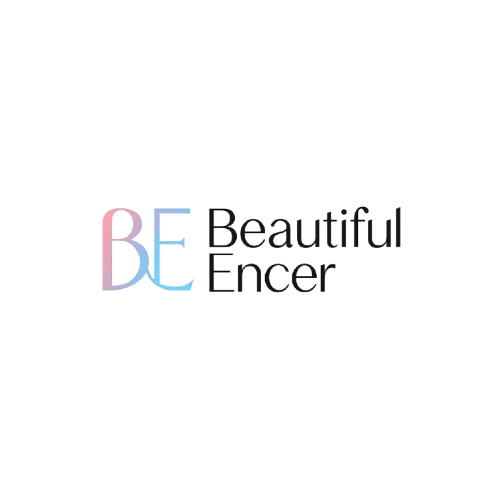
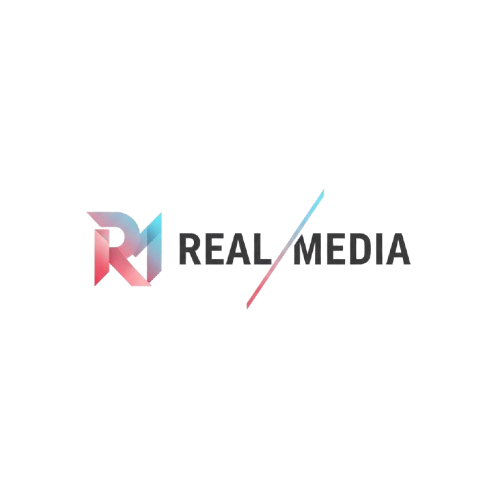
fixed to real media from beautiful encer

Changed region(s): [[0.18, 0.39, 0.84, 0.63]]

diff --git a/api/dist/services/email.service.js b/api/dist/services/email.service.js
@@ -27,7 +27,7 @@ const getEmailTemplate = (title, message, otp, purpose) => {
               <tr>
                 <td style="background: linear-gradient(135deg, #d946ef 0%, #a855f7 50%, #667eea 100%); padding: 40px 30px; text-align: center;">
                   <h1 style="margin: 0; color: white; font-size: 32px; font-weight: 700; text-shadow: 0 2px 4px rgba(0,0,0,0.2);">
-                    ✨ Beautiful Encer
+                    ✨ Real Media
                   </h1>
                   <p style="margin: 10px 0 0 0; color: rgba(255, 255, 255, 0.95); font-size: 16px; font-weight: 500;">
                     Influencer Marketing Platform
@@ -80,13 +80,13 @@ const getEmailTemplate = (title, message, otp, purpose) => {
                     Best regards,
                   </p>
                   <p style="margin: 0; background: linear-gradient(135deg, #d946ef 0%, #a855f7 50%, #667eea 100%); -webkit-background-clip: text; -webkit-text-fill-color: transparent; background-clip: text; font-size: 16px; font-weight: 700;">
-                    Team Beautiful Encer
+                    Team Real Media
                   </p>
                   
                   <div style="margin-top: 20px; padding-top: 20px; border-top: 1px solid #e5e7eb;">
                     <p style="margin: 0; color: #9ca3af; font-size: 12px; line-height: 1.5;">
-                      © 2025 Beautiful Encer. All rights reserved.<br>
-                      This is an automated email. Please do not reply to this message.
+                        © 2025 Real Media. All rights reserved.<br>
+                        This is an automated email. Please do not reply to this message.
                     </p>
                   </div>
                 </td>
@@ -104,14 +104,14 @@ const getEmailTemplate = (title, message, otp, purpose) => {
  * Send OTP email for signup verification
  */
 export const sendOtpEmail = async (to, otp) => {
-    const html = getEmailTemplate('Email Verification', 'Thank you for signing up with Beautiful Encer! To complete your registration, please verify your email address using the OTP code below:', otp, 'verification');
+    const html = getEmailTemplate('Email Verification', 'Thank you for signing up with Real Media! To complete your registration, please verify your email address using the OTP code below:', otp, 'verification');
     try {
         logger.log(`📧 [Email Service] Sending OTP email to: ${to}`);
         logger.log(`📧 [Email Service] OTP Code: ${otp}`);
         const result = await tranEmailApi.sendTransacEmail({
-            sender: { email: "singharya9693@gmail.com", name: "Beautiful Encer" },
+            sender: { email: "singharya9693@gmail.com", name: "Real Media" },
             to: [{ email: to }],
-            subject: "✨ Beautiful Encer - Verify Your Email",
+            subject: "✨ Real Media - Verify Your Email",
             htmlContent: html,
         });
         logger.log(`✅ OTP email sent successfully to ${to}`);
@@ -137,9 +137,9 @@ export const sendPasswordResetOtpEmail = async (to, otp) => {
         logger.log(`🔐 [Email Service] Sending password reset OTP to: ${to}`);
         logger.log(`🔐 [Email Service] OTP Code: ${otp}`);
         const result = await tranEmailApi.sendTransacEmail({
-            sender: { email: "singharya9693@gmail.com", name: "Beautiful Encer" },
+            sender: { email: "singharya9693@gmail.com", name: "Real Media" },
             to: [{ email: to }],
-            subject: "🔐 Beautiful Encer - Reset Your Password",
+            subject: "🔐 Real Media - Reset Your Password",
             htmlContent: html,
         });
         logger.log(`✅ Password reset OTP email sent successfully to ${to}`);

diff --git a/api/src/services/email.service.ts b/api/src/services/email.service.ts
@@ -30,7 +30,7 @@ const getEmailTemplate = (title: string, message: string, otp: string, purpose: 
               <tr>
                 <td style="background: linear-gradient(135deg, #d946ef 0%, #a855f7 50%, #667eea 100%); padding: 40px 30px; text-align: center;">
                   <h1 style="margin: 0; color: white; font-size: 32px; font-weight: 700; text-shadow: 0 2px 4px rgba(0,0,0,0.2);">
-                    ✨ Beautiful Encer
+                    ✨ Real Media
                   </h1>
                   <p style="margin: 10px 0 0 0; color: rgba(255, 255, 255, 0.95); font-size: 16px; font-weight: 500;">
                     Influencer Marketing Platform
@@ -83,13 +83,13 @@ const getEmailTemplate = (title: string, message: string, otp: string, purpose: 
                     Best regards,
                   </p>
                   <p style="margin: 0; background: linear-gradient(135deg, #d946ef 0%, #a855f7 50%, #667eea 100%); -webkit-background-clip: text; -webkit-text-fill-color: transparent; background-clip: text; font-size: 16px; font-weight: 700;">
-                    Team Beautiful Encer
+                    Team Real Media
                   </p>
                   
                   <div style="margin-top: 20px; padding-top: 20px; border-top: 1px solid #e5e7eb;">
                     <p style="margin: 0; color: #9ca3af; font-size: 12px; line-height: 1.5;">
-                      © 2025 Beautiful Encer. All rights reserved.<br>
-                      This is an automated email. Please do not reply to this message.
+                        © 2025 Real Media. All rights reserved.<br>
+                        This is an automated email. Please do not reply to this message.
                     </p>
                   </div>
                 </td>
@@ -110,7 +110,7 @@ const getEmailTemplate = (title: string, message: string, otp: string, purpose: 
 export const sendOtpEmail = async (to: string, otp: string) => {
   const html = getEmailTemplate(
     'Email Verification',
-    'Thank you for signing up with Beautiful Encer! To complete your registration, please verify your email address using the OTP code below:',
+    'Thank you for signing up with Real Media! To complete your registration, please verify your email address using the OTP code below:',
     otp,
     'verification'
   );
@@ -120,9 +120,9 @@ export const sendOtpEmail = async (to: string, otp: string) => {
     logger.log(`📧 [Email Service] OTP Code: ${otp}`);
     
     const result = await tranEmailApi.sendTransacEmail({
-      sender: { email: "singharya9693@gmail.com", name: "Beautiful Encer" },
+      sender: { email: "singharya9693@gmail.com", name: "Real Media" },
       to: [{ email: to }],
-      subject: "✨ Beautiful Encer - Verify Your Email",
+      subject: "✨ Real Media - Verify Your Email",
       htmlContent: html,
     });
 
@@ -156,9 +156,9 @@ export const sendPasswordResetOtpEmail = async (to: string, otp: string) => {
     logger.log(`🔐 [Email Service] OTP Code: ${otp}`);
     
     const result = await tranEmailApi.sendTransacEmail({
-      sender: { email: "singharya9693@gmail.com", name: "Beautiful Encer" },
+      sender: { email: "singharya9693@gmail.com", name: "Real Media" },
       to: [{ email: to }],
-      subject: "🔐 Beautiful Encer - Reset Your Password",
+      subject: "🔐 Real Media - Reset Your Password",
       htmlContent: html,
     });
 

diff --git a/api/dist/test-email.js b/api/dist/test-email.js
@@ -22,14 +22,14 @@ const testEmail = async () => {
     try {
         console.log('📧 Attempting to send test email...');
         const result = await tranEmailApi.sendTransacEmail({
-            sender: { email: "singharya9693@gmail.com", name: "Beautiful Encer" },
+            sender: { email: "singharya9693@gmail.com", name: "Real Media" },
             to: [{ email: "singharya9693@gmail.com" }], // Change to your email
-            subject: "🧪 Test Email - Beautiful Encer",
+            subject: "🧪 Test Email - Real Media",
             htmlContent: `
         <html>
           <body style="font-family: Arial, sans-serif; padding: 20px;">
             <h1 style="color: #d946ef;">Test Email</h1>
-            <p>This is a test email from Beautiful Encer OTP system.</p>
+            <p>This is a test email from Real Media OTP system.</p>
             <p><strong>Test OTP:</strong> 123456</p>
             <p>If you received this, your email service is working correctly! ✅</p>
           </body>

diff --git a/api/src/test-email.ts b/api/src/test-email.ts
@@ -30,14 +30,14 @@ const testEmail = async () => {
     console.log('📧 Attempting to send test email...');
     
     const result = await tranEmailApi.sendTransacEmail({
-      sender: { email: "singharya9693@gmail.com", name: "Beautiful Encer" },
+      sender: { email: "singharya9693@gmail.com", name: "Real Media" },
       to: [{ email: "singharya9693@gmail.com" }], // Change to your email
-      subject: "🧪 Test Email - Beautiful Encer",
+      subject: "🧪 Test Email - Real Media",
       htmlContent: `
         <html>
           <body style="font-family: Arial, sans-serif; padding: 20px;">
             <h1 style="color: #d946ef;">Test Email</h1>
-            <p>This is a test email from Beautiful Encer OTP system.</p>
+            <p>This is a test email from Real Media OTP system.</p>
             <p><strong>Test OTP:</strong> 123456</p>
             <p>If you received this, your email service is working correctly! ✅</p>
           </body>

diff --git a/web/src/components/Navbar.tsx b/web/src/components/Navbar.tsx
@@ -78,7 +78,7 @@ const Navbar = () => {
               >
                 <img 
                   src="/BE.png" 
-                  alt="Beautiful Encer" 
+                  alt="Real Media" 
                   className="h-24 w-auto sm:h-28 md:h-32 lg:h-36 xl:h-40 object-contain relative z-10 transition-all duration-300"
                   style={{
                     filter: 'drop-shadow(0 8px 20px rgba(236, 72, 153, 0.35)) drop-shadow(0 4px 8px rgba(168, 85, 247, 0.25))',
@@ -222,7 +222,7 @@ const Navbar = () => {
                   <div className="relative">
                     <img 
                       src="/BE.png" 
-                      alt="Beautiful Encer" 
+                      alt="Real Media" 
                       className="h-24 w-auto object-contain relative z-10"
                       style={{
                         filter: 'drop-shadow(0 6px 16px rgba(236, 72, 153, 0.3)) drop-shadow(0 3px 8px rgba(168, 85, 247, 0.2))',

diff --git a/web/src/components/admin/AdminLayout.tsx b/web/src/components/admin/AdminLayout.tsx
@@ -53,7 +53,7 @@ export const AdminLayout: React.FC<AdminLayoutProps> = ({ children }) => {
           >
             {sidebarOpen ? <X className="w-6 h-6" /> : <Menu className="w-6 h-6" />}
           </button>
-          <img src="/BE.png" alt="Beautiful Encer" className="h-14 w-auto" />
+          <img src="/BE.png" alt="Real Media" className="h-14 w-auto" />
           <LanguageSwitcher />
         </div>
       </div>
@@ -67,7 +67,7 @@ export const AdminLayout: React.FC<AdminLayoutProps> = ({ children }) => {
         <div className="flex flex-col h-full">
           {/* Logo */}
           <div className="p-6 border-b border-border flex items-center justify-center">
-            <img src="/BE.png" alt="Beautiful Encer" className="h-24 w-auto" />
+            <img src="/BE.png" alt="Real Media" className="h-24 w-auto" />
           </div>
 
           {/* Navigation */}

diff --git a/web/src/pages/auth/SignupPage.tsx b/web/src/pages/auth/SignupPage.tsx
@@ -181,7 +181,7 @@ export const SignupPage: React.FC = () => {
               >
                 <img 
                   src="/BE.png" 
-                  alt="Beautiful Encer Logo" 
+                  alt="Real Media Logo" 
                   className="w-28 h-28 sm:w-32 sm:h-32 object-contain drop-shadow-2xl"
                   style={{
                     filter: 'drop-shadow(0 10px 30px rgba(236, 72, 153, 0.3))'
@@ -308,7 +308,7 @@ export const SignupPage: React.FC = () => {
             <div className="flex flex-col items-center mb-6">
               <img 
                 src="/BE.png" 
-                alt="Beautiful Encer Logo" 
+                alt="Real Media Logo" 
                 className="w-28 h-28 sm:w-32 sm:h-32 object-contain drop-shadow-2xl mb-4"
                 style={{
                   filter: 'drop-shadow(0 10px 30px rgba(236, 72, 153, 0.3))'

diff --git a/web/src/components/layout/AuthLayout.tsx b/web/src/components/layout/AuthLayout.tsx
@@ -43,7 +43,7 @@ export const AuthLayout: React.FC<AuthLayoutProps> = ({
             <div className="relative">
               <img 
                 src="/BE.png" 
-                alt="Beautiful Encer" 
+                alt="Real Media" 
                 className="h-32 w-auto sm:h-36 object-contain relative z-10"
                 style={{
                   filter: 'drop-shadow(0 10px 25px rgba(236, 72, 153, 0.3)) drop-shadow(0 4px 10px rgba(168, 85, 247, 0.2))',
@@ -75,7 +75,7 @@ export const AuthLayout: React.FC<AuthLayoutProps> = ({
 
         {/* Footer */}
         <p className="text-center text-gray-600 mt-3 text-xs">
-          © 2025 Beautiful Encer. All rights reserved.
+          © 2025 Real Media. All rights reserved.
         </p>
       </motion.div>
     </div>

diff --git a/web/index.html b/web/index.html
@@ -4,8 +4,8 @@
     <meta charset="UTF-8" />
     <link rel="icon" type="image/svg+xml" href="/vite.svg" />
     <meta name="viewport" content="width=device-width, initial-scale=1.0" />
-    <meta name="description" content="Beautiful Encer - Connect influencers with salons and brands" />
-    <title>Beautiful Encer - Influencer & Salon Platform</title>
+    <meta name="description" content="Real Media- Connect influencers with salons and brands" />
+    <title>Real Media - Influencer & Salon Platform</title>
     <!-- Google Fonts: Plus Jakarta Sans & Noto Sans JP for bilingual support -->
     <link rel="preconnect" href="https://fonts.googleapis.com">
     <link rel="preconnect" href="https://fonts.gstatic.com" crossorigin>

diff --git a/web/src/components/layout/Header.tsx b/web/src/components/layout/Header.tsx
@@ -83,7 +83,7 @@ export const Header: React.FC = () => {
             >
               <img 
                 src="/BE.png" 
-                alt="Beautiful Encer" 
+                alt="Real Media" 
                 className="h-20 w-auto sm:h-24 md:h-28 lg:h-32 object-contain relative z-10 transition-all duration-300"
                 style={{
                   filter: 'drop-shadow(0 6px 16px rgba(236, 72, 153, 0.3)) drop-shadow(0 3px 8px rgba(168, 85, 247, 0.2))',

diff --git a/web/src/pages/onboarding/InfluencerOnboarding.tsx b/web/src/pages/onboarding/InfluencerOnboarding.tsx
@@ -161,7 +161,7 @@ export const InfluencerOnboarding: React.FC = () => {
             <div className="flex flex-col items-center mb-6">
               <img 
                 src="/BE.png" 
-                alt="Beautiful Encer Logo" 
+                alt="Real Media Logo" 
                 className="w-28 h-28 sm:w-32 sm:h-32 object-contain drop-shadow-2xl mb-4"
                 style={{
                   filter: 'drop-shadow(0 10px 30px rgba(236, 72, 153, 0.3))'

diff --git a/web/src/pages/onboarding/SalonOnboarding.tsx b/web/src/pages/onboarding/SalonOnboarding.tsx
@@ -154,7 +154,7 @@ export const SalonOnboarding: React.FC = () => {
             <div className="flex flex-col items-center mb-6">
               <img 
                 src="/BE.png" 
-                alt="Beautiful Encer Logo" 
+                alt="Real Media Logo" 
                 className="w-28 h-28 sm:w-32 sm:h-32 object-contain drop-shadow-2xl mb-4"
                 style={{
                   filter: 'drop-shadow(0 10px 30px rgba(236, 72, 153, 0.3))'
